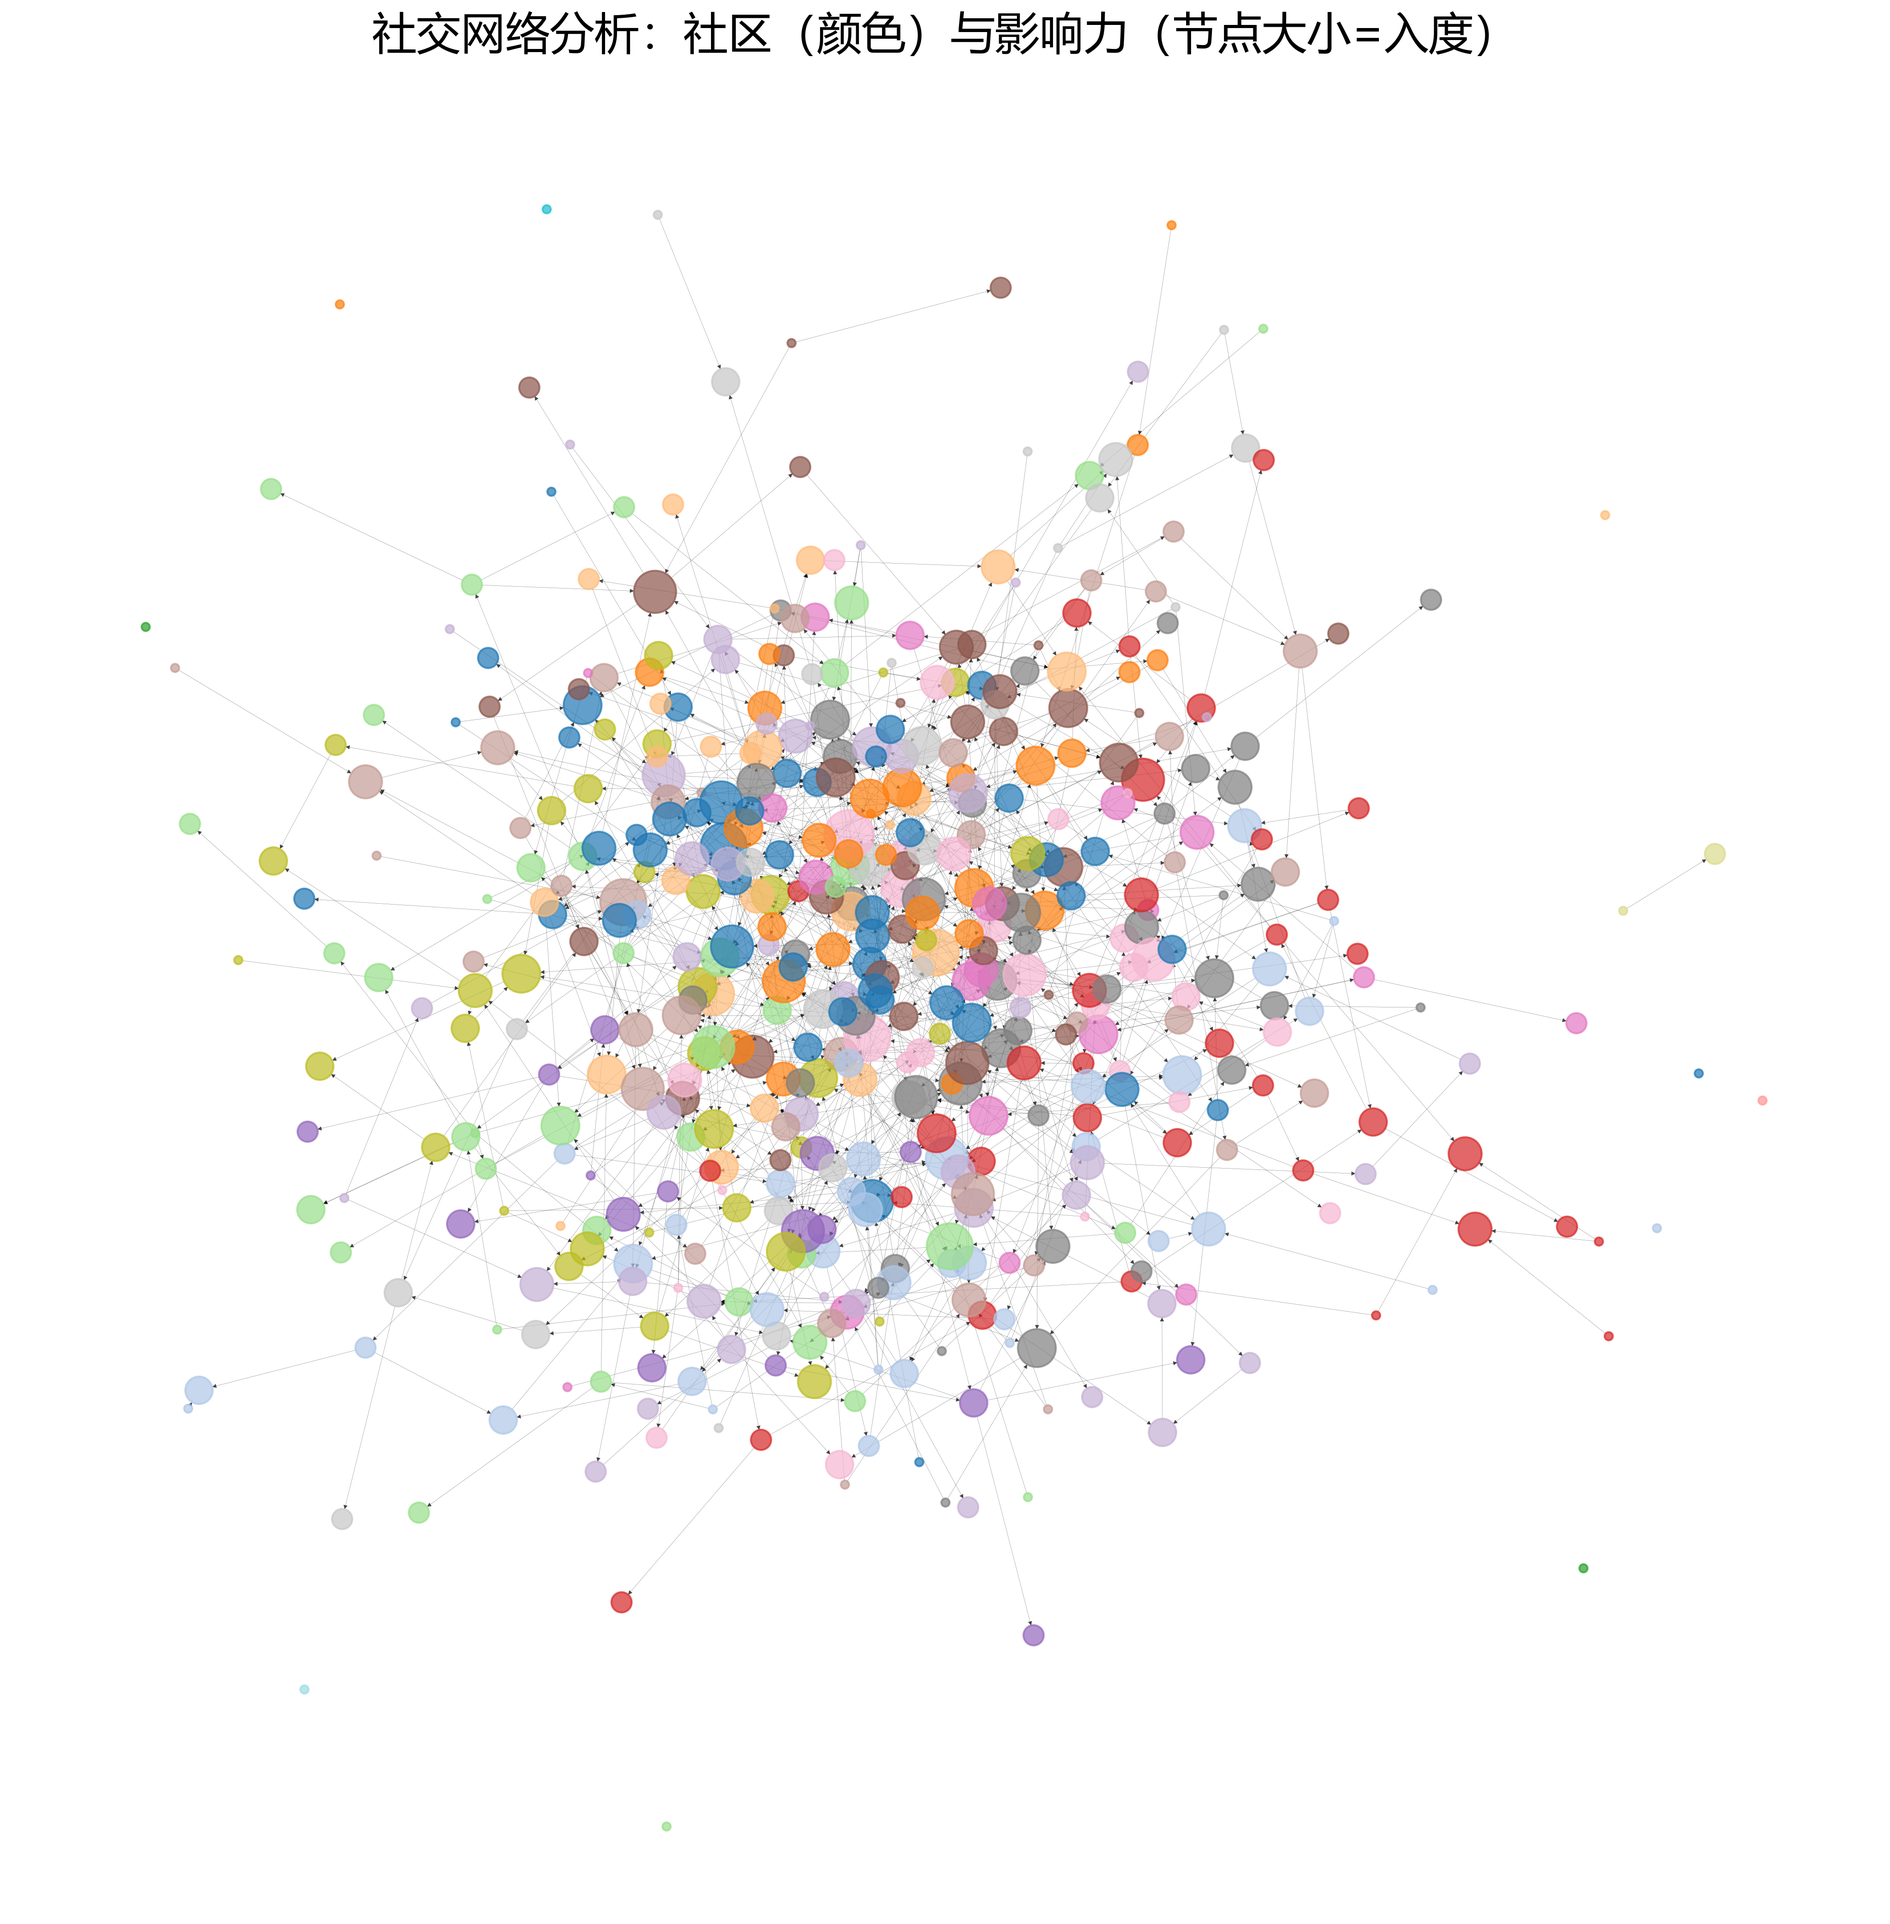
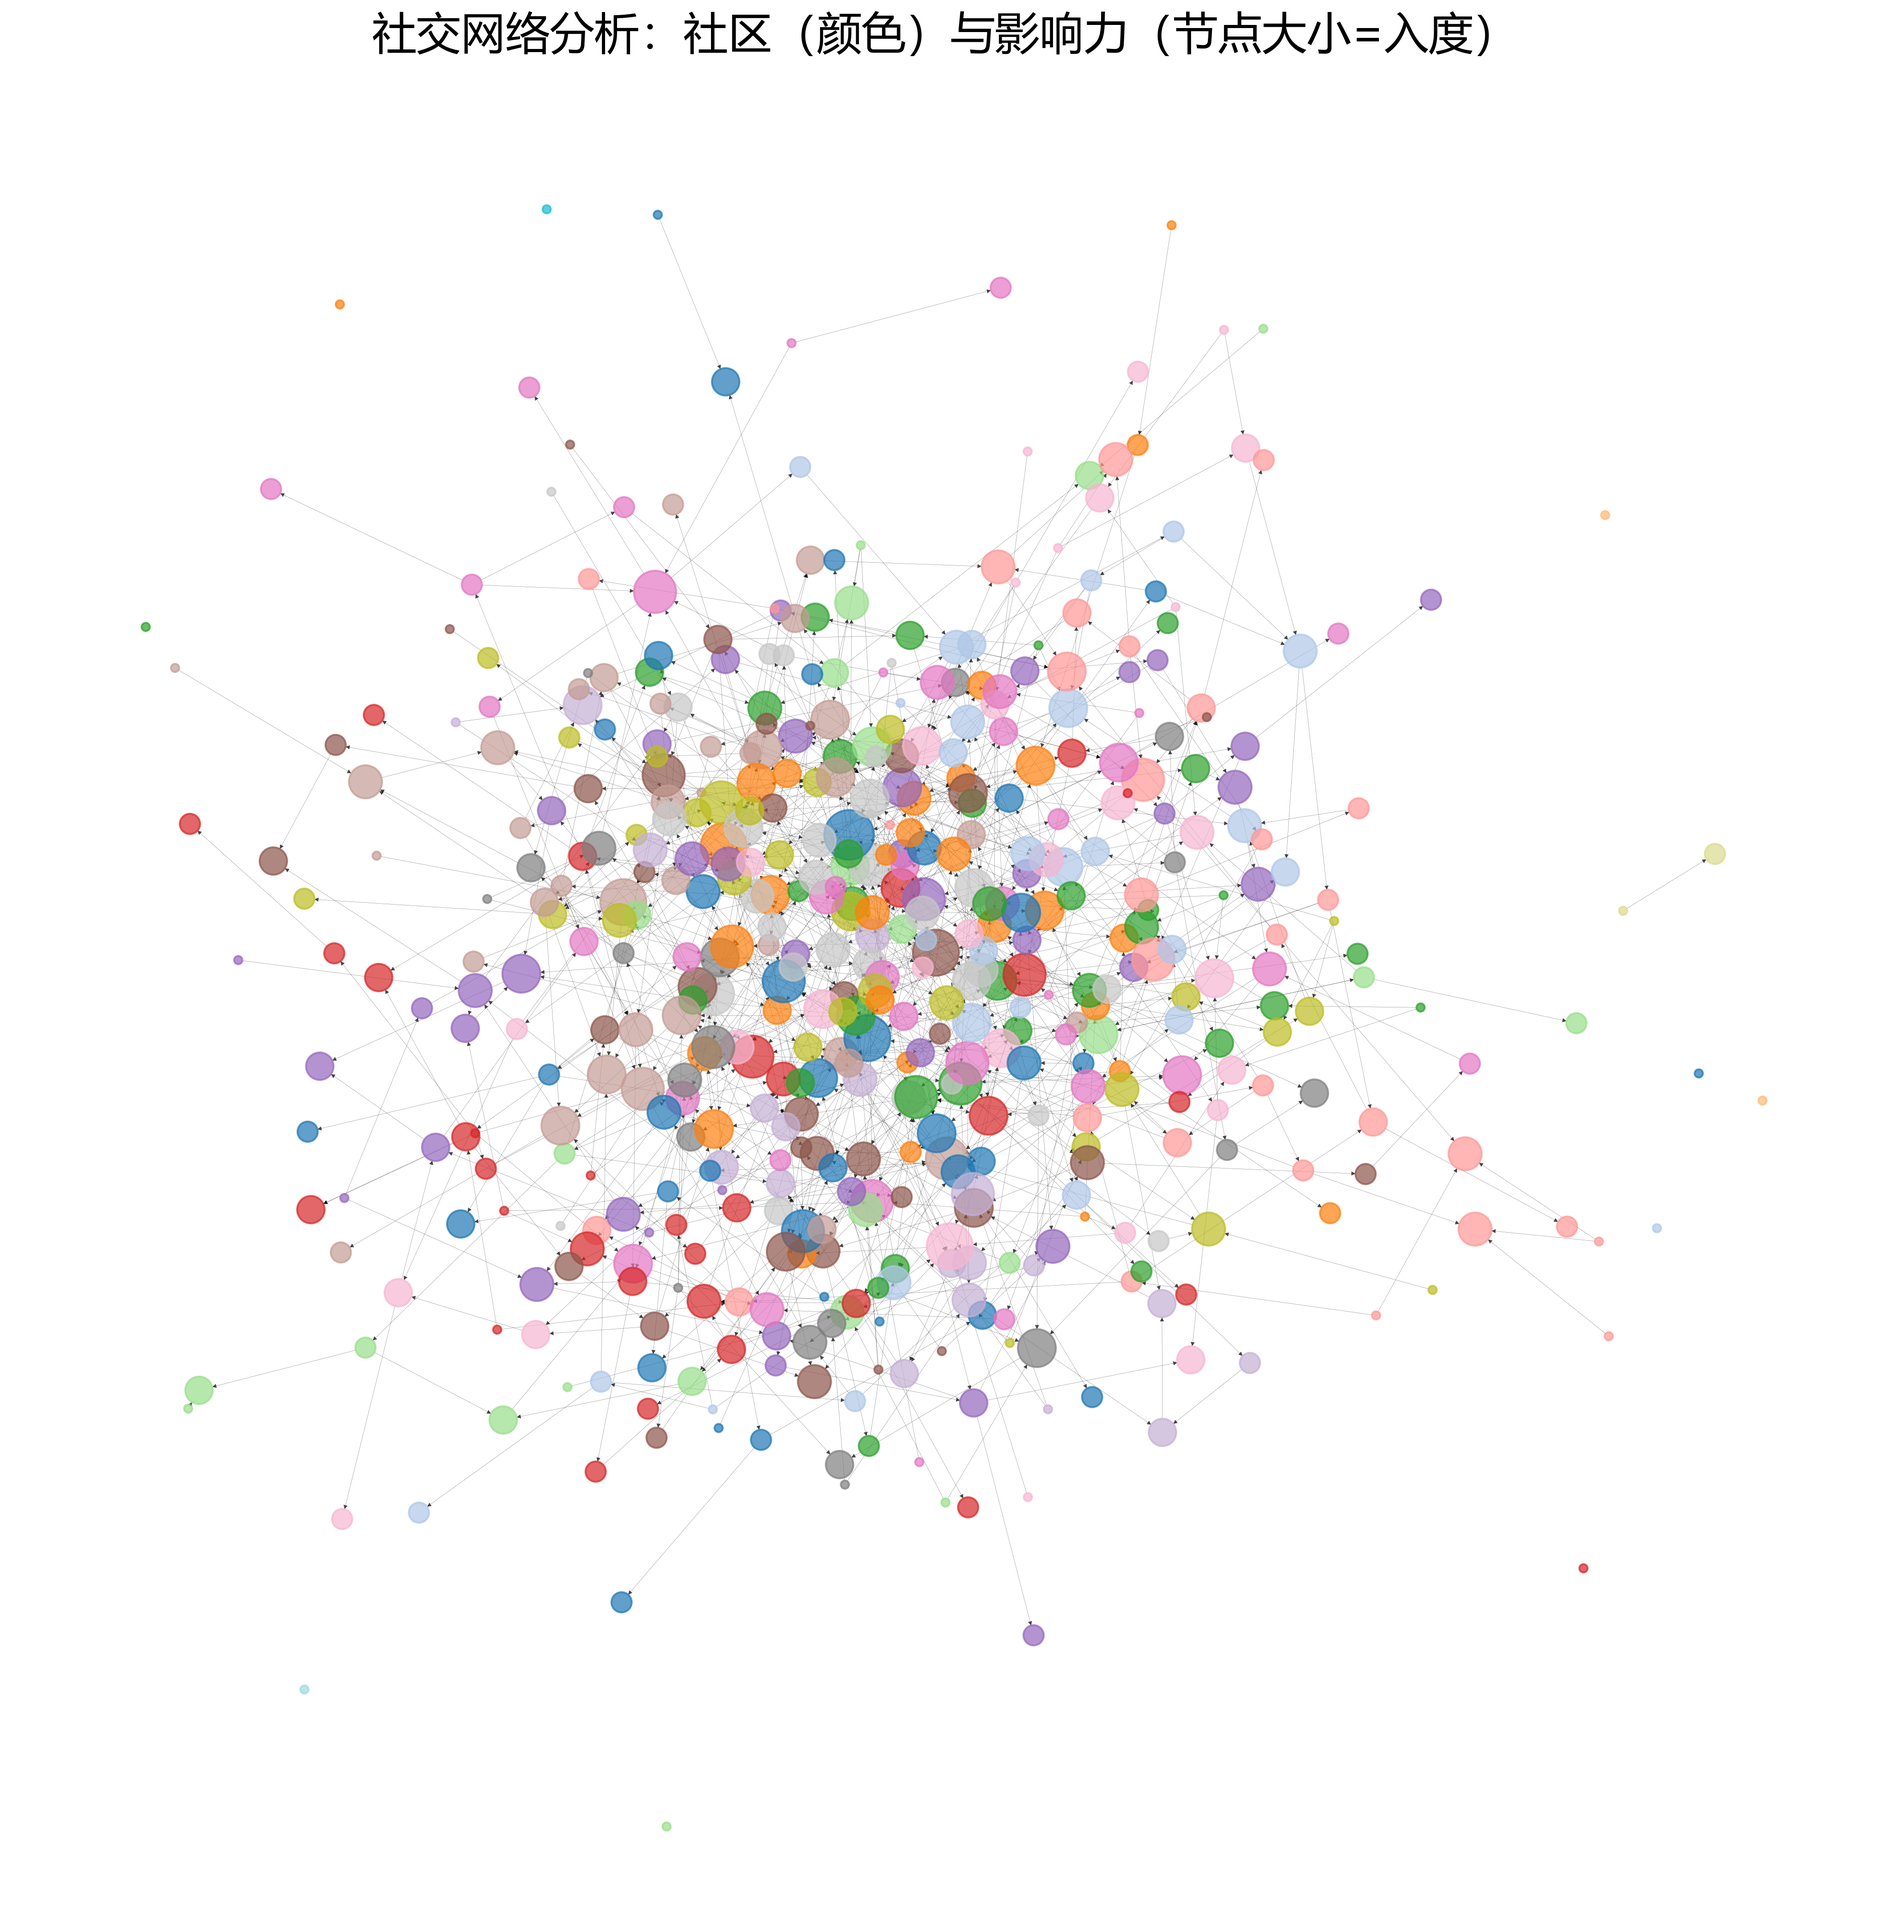
增加部分笔记

diff --git a/纳米技术与应用/未命名.md b/纳米技术与应用/未命名.md
@@ -65,6 +65,13 @@
 
 ## 4 纳米材料的制备技术
 
+## 5 碳纳米管
+
+## 6 石墨烯材料
+
+## 7 纳米材料的应用
+
+
 
 
 
